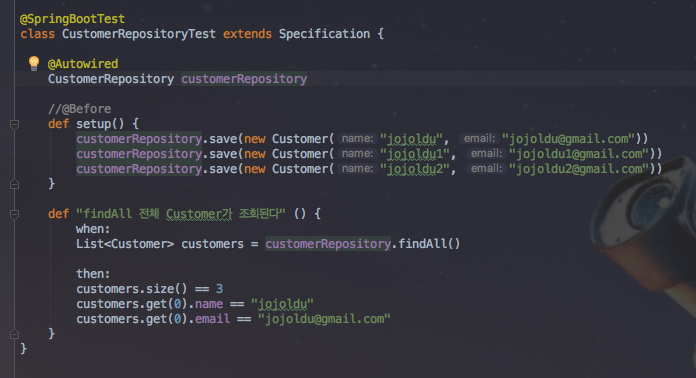
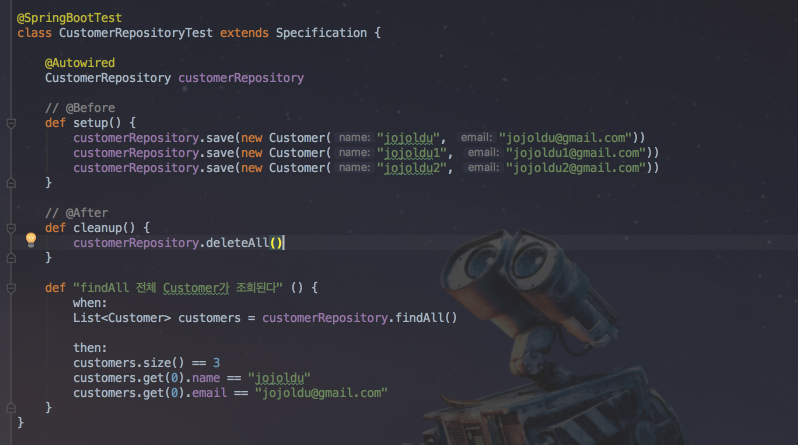
[spring-boot-spock] fixture 메소드 소개 추가

diff --git a/spring-boot-spock/SPRING_BOOT_BASIC.md b/spring-boot-spock/SPRING_BOOT_BASIC.md
@@ -6,24 +6,40 @@
 
 ## 2. SpringBoot + Spock
 
-이제는 실제 SpringBoot 환경에서 Spock을 어떻게 사용할지에 대해 소개드리겠습니다.  
-참고로 Spock은 모든 Spring 코드를 Java와 동일하게 사용할 수 있습니다.  
-  
-(참고로 ```@RunWith(SpringRunner.class)```는 Spock 테스트에서 사용하지 않습니다.)  
-
-![SpringRunner](./images/SpringRunner.png)
-
-보시는 것처럼 ```SpringRunner``` 클래스는 이전에 사용하던 ```SpringJUnit4ClassRunner```를 확장한 클래스이다보니 JUnit을 사용할때 필요하기 때문입니다.  
-  
-
+실제 SpringBoot 환경에서 Spock을 어떻게 사용할지에 대해 소개드리겠습니다.  
+Spock은 모든 Spring 코드를 JUnit과 동일하게 사용할 수 있습니다.  
+기본적인 사용법부터 시작해보겠습니다!
 
 ### 2-1. 기본 사용법
 
-간단하게 Repository 기능을 테스트해보겠습니다.  
+스프링 컨텍스트를 호출하여 검증하는 간단한 테스트 코드를 작성해보겠습니다.
 
 ![springboot_기본테스트](./images/springboot_기본테스트.png)
 
+ ```Bean```으로 등록된 ```CustomerRepository```을 호출하여 ```findAll()``` 메소드를 검증하는 코드입니다.  
+Spock을 처음 접하셔도 전혀 위화감이 없는 코드이지 않나요?  
+기존 JUnit과 크게 사용법이 다르지 않습니다.  
+그만큼 Spock으로 전환하기가 쉽다고 생각합니다.  
+  
+앞서 1부에서 소개한 기능 외에 새로운 코드가 보입니다.
+
+* setup
+  * JUnit의 ```@Before```와 같은 기능
+  * 모든 테스트 메소드가 **실행되기 전에 각각 수행**된다. 
+* cleanup
+  * JUnit의 ```@After```와 같은 기능
+  * 모든 테스트 메소드가 **실행된 후에 각각 수행**된다.
+
+이외에도 ```setupSpec```, ```cleanupSpec```등이 더 있는데, 이런 메소드를 보고 Spock에선 [fixture 메소드](http://spockframework.org/spock/docs/1.1-SNAPSHOT/all_in_one.html#_fixture_methods) 라고 합니다.  
+  
+JUnit 코드와 다른 점이 한가지 더 있다면 ```SpringRunner.class```가 빠진것입니다.  
+ ```@RunWith(SpringRunner.class)```는 Spock 테스트에서 사용하지 않습니다.  
+
+![SpringRunner](./images/SpringRunner.png)
+
+보시는 것처럼 ```SpringRunner``` 클래스는 이전에 사용하던 ```SpringJUnit4ClassRunner```를 확장한 클래스이다보니 JUnit을 사용할때 필요하며 Spock에선 사용되지 않습니다.  
 
 ### 2-2. SpringBatch
 
 ### 2-3. @MockBean, @SpyBean
+
